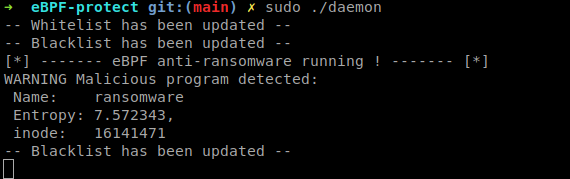
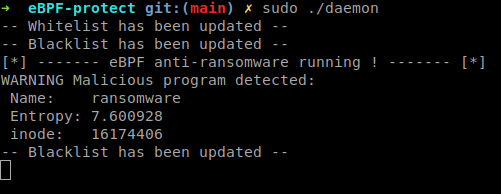
typo

Changed region(s): [[0.0, 0.0, 0.7784, 1.0], [0.7784, 0.2793, 0.988, 0.3911]]

diff --git a/src/daemon/daemon.c b/src/daemon/daemon.c
@@ -165,7 +165,7 @@ int entropy_calculus(void *ctx, void *data, size_t data_sz)
 
     double entropy = calculate_shannon_entropy(data_check->data, READ_SZ);
     if (entropy >= 7.3) {
-        printf("WARNING Malicious program detected:\n Name:    %s\n Entropy: %f,\n inode:   %lli\n", data_check->comm, entropy, data_check->inode);
+        printf("WARNING Malicious program detected:\n Name:    %s\n Entropy: %f\n inode:   %lli\n", data_check->comm, entropy, data_check->inode);
         save_blacklist(skel->maps.blacklist, data_check);
     }
     return 0;
